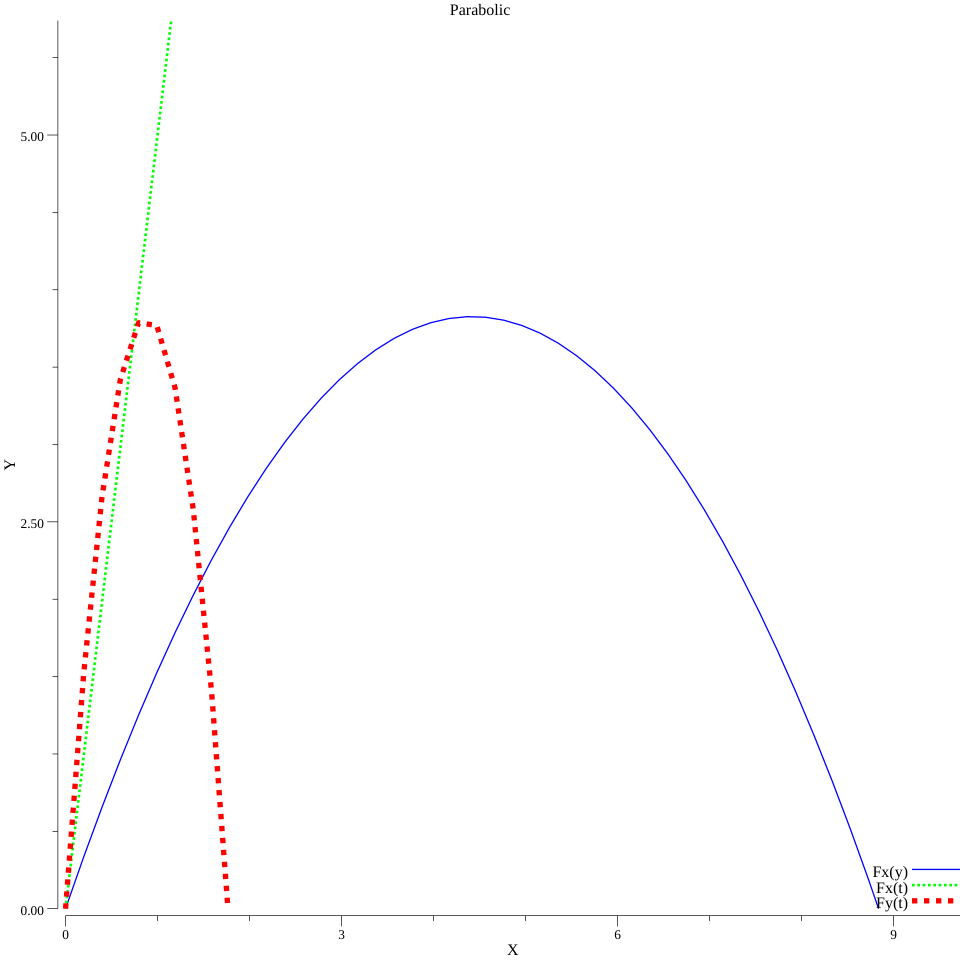
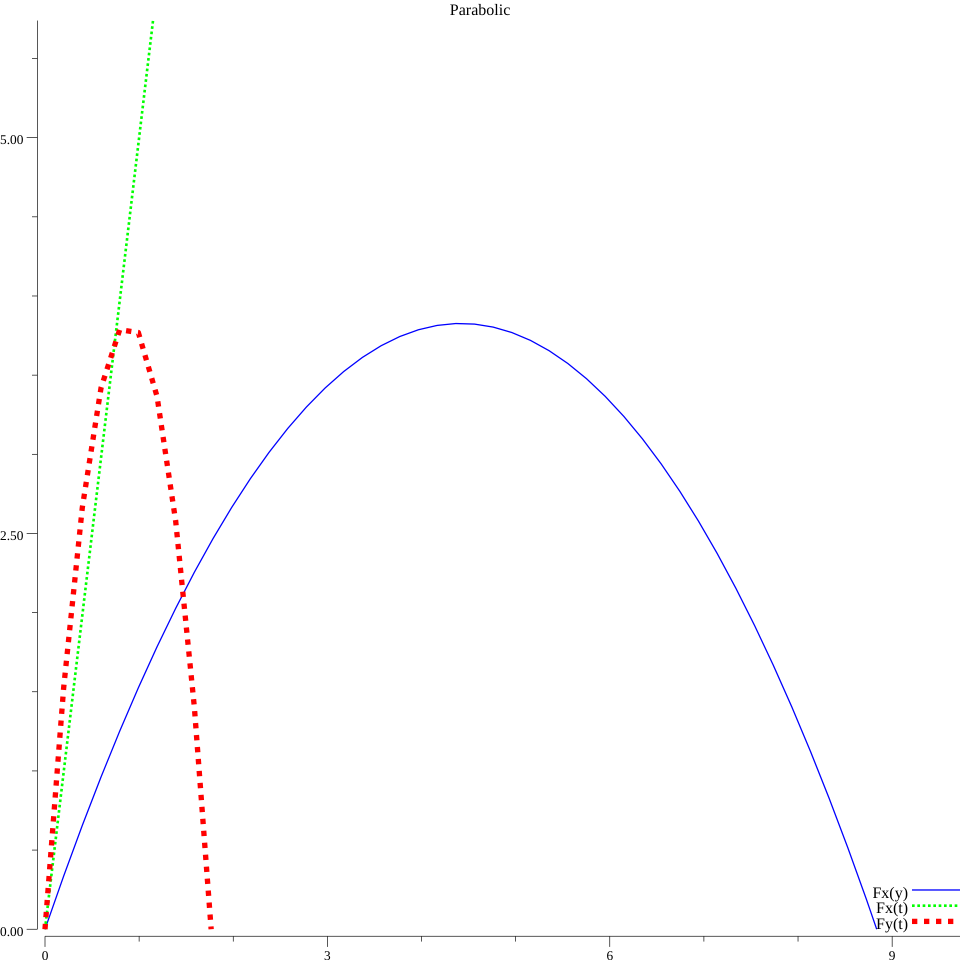
Add remove x and y from image

diff --git a/app/parabolic/main.go b/app/parabolic/main.go
@@ -16,8 +16,6 @@ func main() {
 		panic(err)
 	}
 	p.Title.Text = "Parabolic"
-	p.X.Label.Text = "X"
-	p.Y.Label.Text = "Y"
 
 	prbl := mosi.NewParabolic(10, 0, 0, 60, 9.8)
 	// A parabolic function
